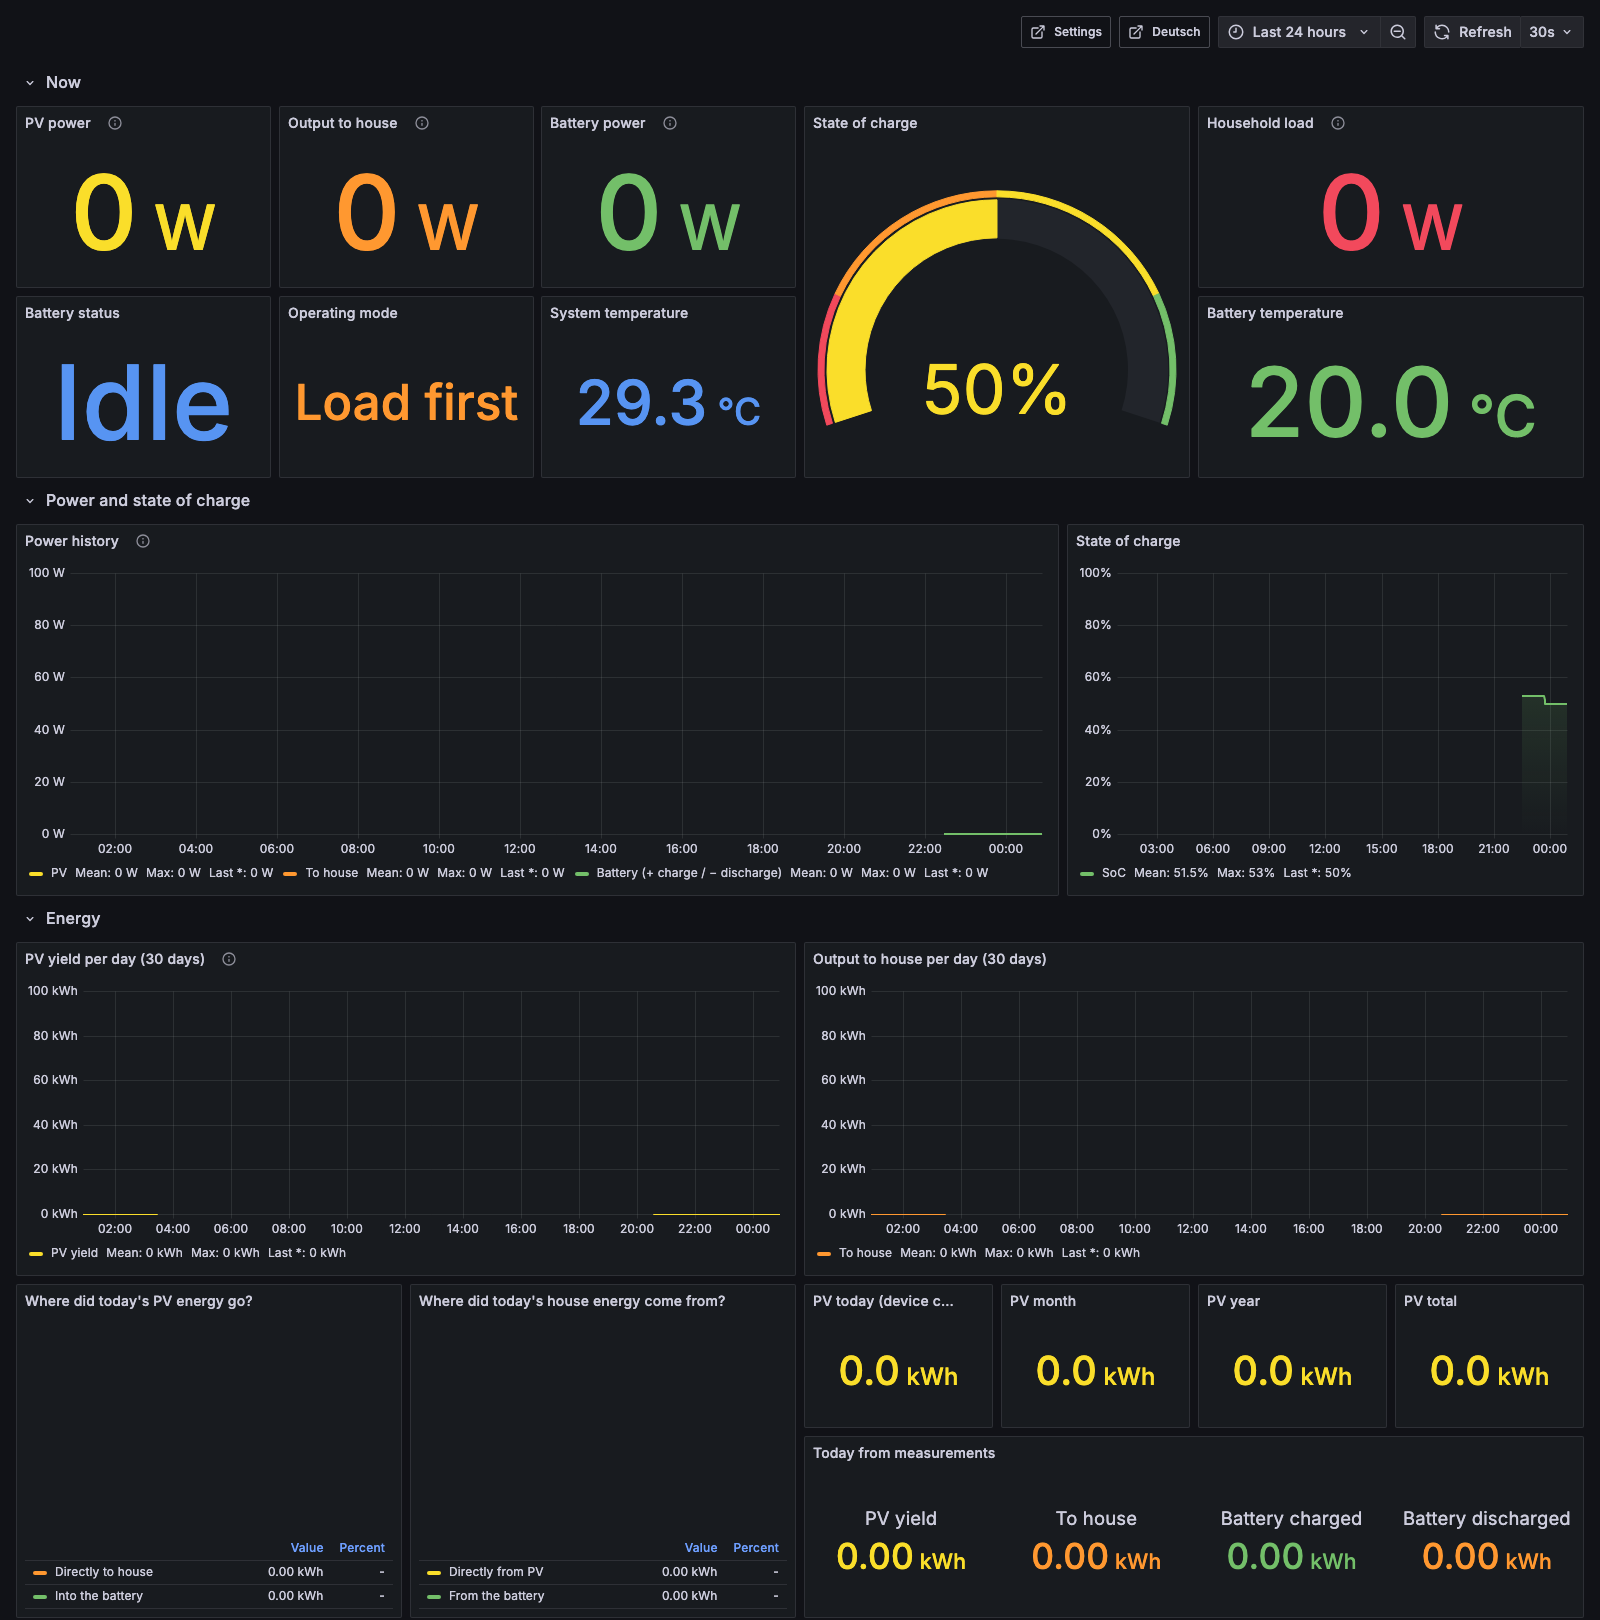
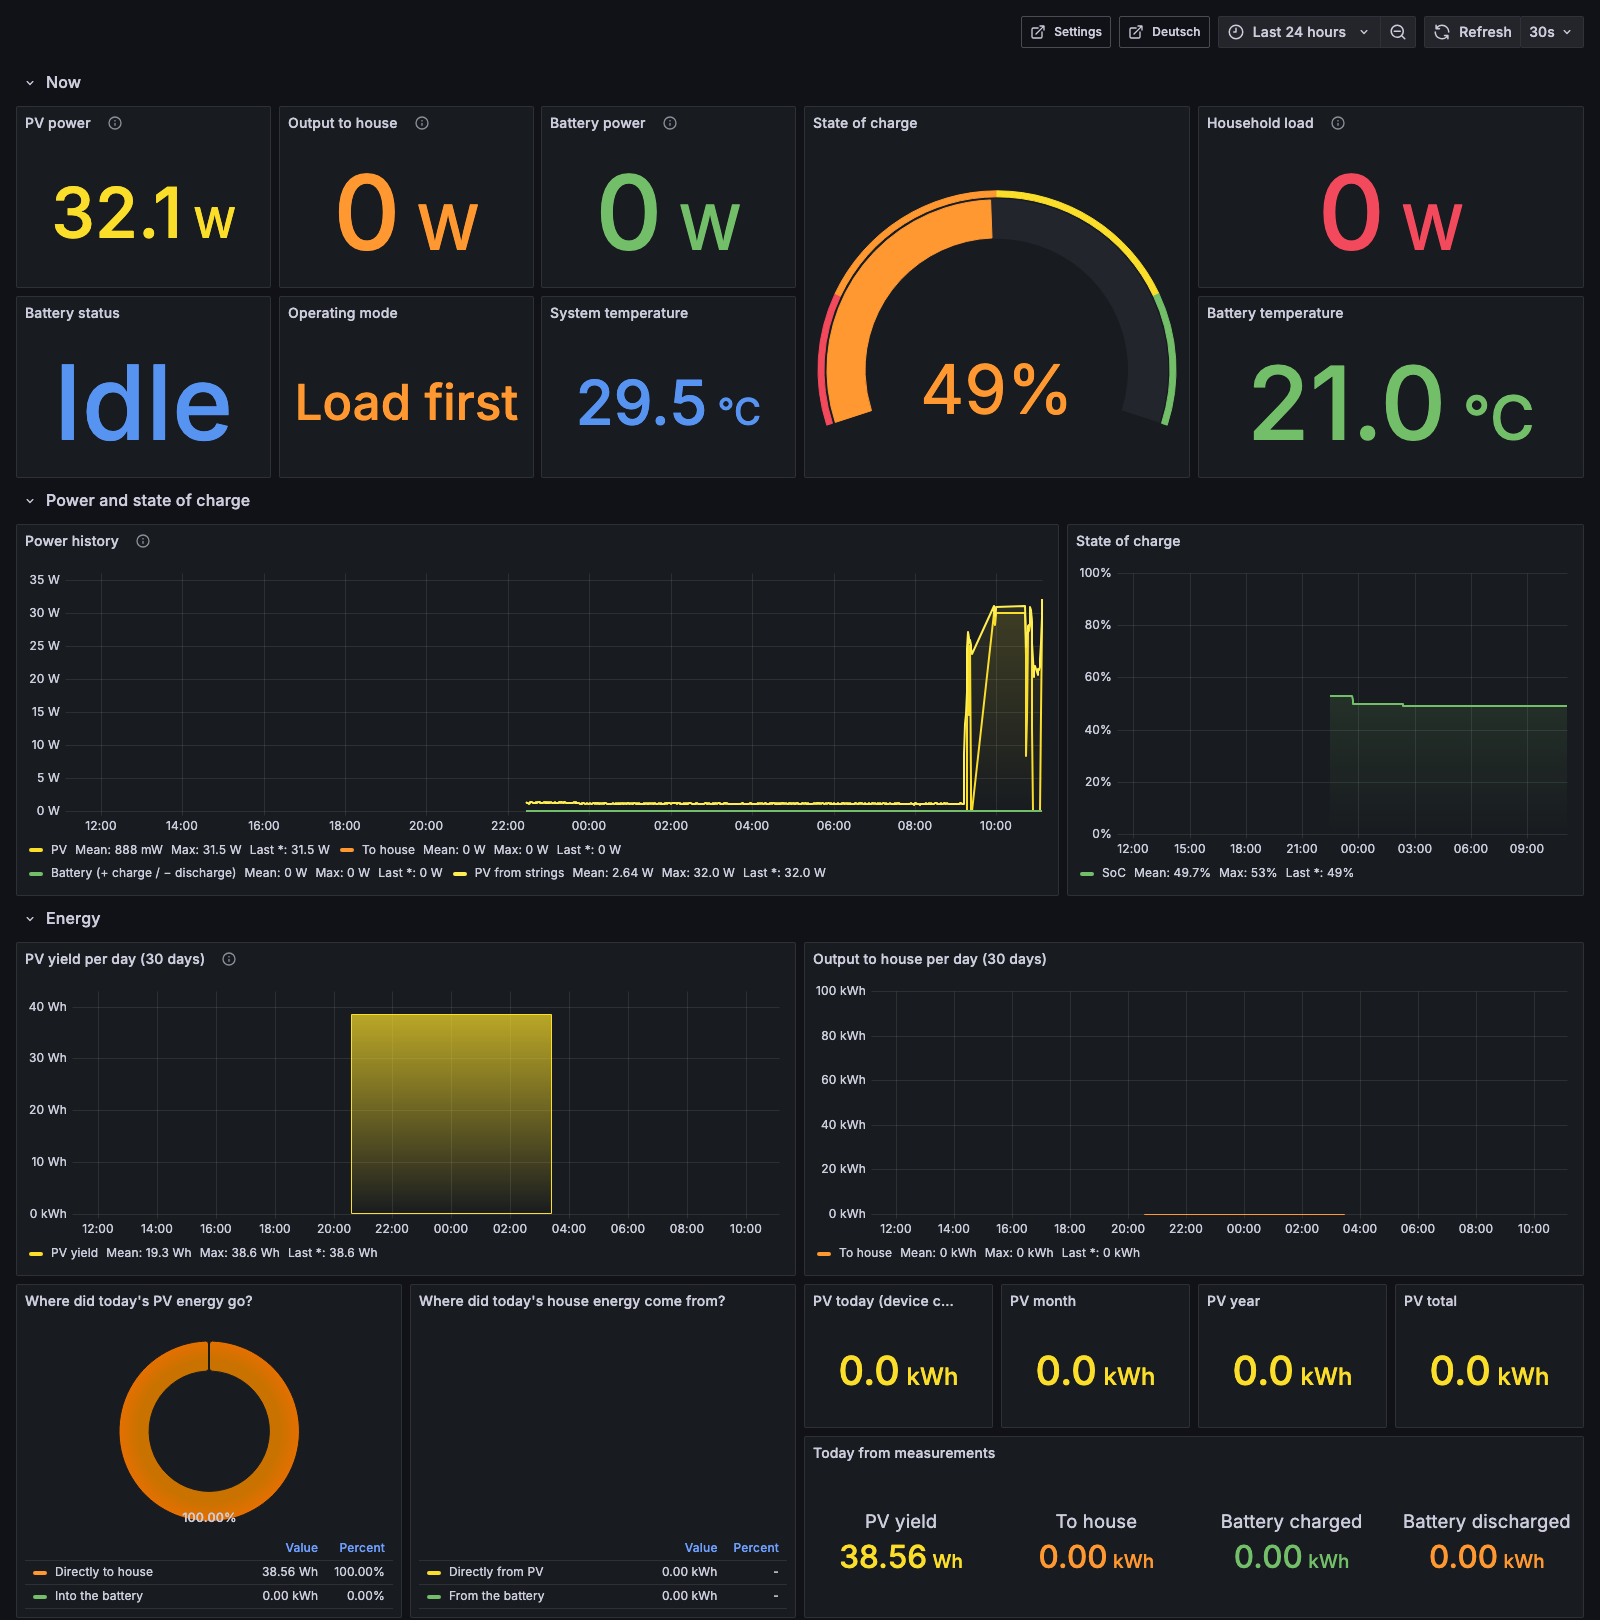
Dashboard: auto-scaled power units, PV power from string V×I, refreshed screenshot (2026.36.2)
Small values below 1 W are shown as mW instead of rounding to 0 W. The PV tile and a fourth series in the power history
are computed from voltage × current of the four strings, because the device's ppv register rounds to whole watts and lags.

Claude-Session: https://claude.ai/code/session_01G7itcPsHBNdmMS3SzQs72S

diff --git a/settings-ui/index.html b/settings-ui/index.html
@@ -55,7 +55,7 @@
 </head>
 <body>
 <header>
-  <h1>GroLo <small>Growatt Local · 2026.36.1</small></h1>
+  <h1>GroLo <small>Growatt Local · 2026.36.2</small></h1>
   <span id="conn" class="pill">…</span>
   <span id="dev" class="pill">–</span>
   <span id="avail" class="pill">–</span>
@@ -91,7 +91,7 @@
   <section id="sec-other" hidden><h2 data-t="sec.other"></h2><p class="hint" data-t="sec.other.hint"></p><div class="grid"></div></section>
   <section><h2 data-t="sec.log"></h2><p class="hint" data-t="sec.log.hint"></p><div id="log"></div></section>
 </main>
-<footer>GroLo · Growatt Local · v2026.36.1 · MQTT <span id="ws-url"></span></footer>
+<footer>GroLo · Growatt Local · v2026.36.2 · MQTT <span id="ws-url"></span></footer>
 
 <script src="mqtt.min.js"></script>
 <script>

diff --git a/grafana/build-dashboard.py b/grafana/build-dashboard.py
@@ -48,7 +48,8 @@ EN = {
     "Unbekannte Register (Forschung)": "Unknown registers (research)", "Unbekannte Eingangsregister, Verlauf (nur ≠ 0)": "Unknown input registers, history (≠ 0 only)",
     "Rohwerte der Register, die die Bridge nicht kennt. 30000 = Offset für 0 bei vorzeichenbehafteten Werten.": "Raw values of registers the bridge does not know. 30000 = offset for 0 in signed values.",
     "Halteregister-Dump (unbekannt, ≠ 0)": "Holding register dump (unknown, ≠ 0)", "Kommt stündlich vom Gerät (Nachricht 0x0103).": "Sent hourly by the device (message 0x0103).",
-    "Register": "Register", "Wert": "Value", "PV-Eingänge belegt": "PV inputs in use", "belegt": "in use",
+    "Register": "Register", "Wert": "Value", "PV aus Strings": "PV from strings",
+    "Summe Spannung × Strom aller Strings. Feiner und aktueller als das Geräteregister, das auf ganze Watt rundet.": "Sum of voltage × current of all strings. Finer and more current than the device register, which rounds to whole watts.", "PV-Eingänge belegt": "PV inputs in use", "belegt": "in use",
     "Eingänge mit mehr als 5 V in den letzten 24 h, von 4 MPPT-Eingängen": "Inputs with more than 5 V in the last 24 h, out of 4 MPPT inputs",
     "PV-Eingang 1 bis 4": "PV input 1 to 4", "Maximale Spannung je Eingang in 24 h. Grün = Panel angeschlossen, rot = frei.": "Maximum voltage per input in 24 h. Green = panel connected, red = free.", "Einstellungen": "Settings", "Einstellungsseite (GroLo)": "Settings page (GroLo)",
 }
@@ -226,13 +227,20 @@ def build(lang):
     # ============================================================ Jetzt
     panels.append(row(_("Jetzt"), y)); y += 1
     panels += [
-        stat_field(_("PV-Leistung"), 0, y, 4, 5, "ppv", "watt", C_PV, 0, desc=_("Aktuelle Leistung aller PV-Strings")),
-        stat_field(_("Ausgang ins Haus"), 4, y, 4, 5, "pac", "watt", C_HOUSE, 0, desc=_("AC-Ausgangsleistung des NEXA")),
-        stat_field(_("Batterie-Leistung"), 8, y, 4, 5, "totalBatteryPackChargingPower", "watt", C_BAT, 0, desc=_("Lade-/Entladeleistung der Batterie")),
+        stat(_("PV-Leistung"), 0, y, 4, 5, HEAD + f'''from(bucket: "{BUCKET}")
+  |> range(start: -1h)
+  |> filter(fn: (r) => r._measurement == "nexa" and (r._field =~ /^pv[1-4](Voltage|Current)$/))
+  |> pivot(rowKey: ["_time"], columnKey: ["_field"], valueColumn: "_value")
+  |> filter(fn: (r) => exists r.pv1Voltage and exists r.pv4Current)
+  |> last(column: "pv1Voltage")
+  |> map(fn: (r) => ({{ _time: r._time, _value: r.pv1Voltage * r.pv1Current + r.pv2Voltage * r.pv2Current + r.pv3Voltage * r.pv3Current + r.pv4Voltage * r.pv4Current }}))
+  |> keep(columns: ["_time", "_value"])''', "watt", C_PV, desc=_("Summe Spannung × Strom aller Strings. Feiner und aktueller als das Geräteregister, das auf ganze Watt rundet.")),
+        stat_field(_("Ausgang ins Haus"), 4, y, 4, 5, "pac", "watt", C_HOUSE, desc=_("AC-Ausgangsleistung des NEXA")),
+        stat_field(_("Batterie-Leistung"), 8, y, 4, 5, "totalBatteryPackChargingPower", "watt", C_BAT, desc=_("Lade-/Entladeleistung der Batterie")),
         panel("gauge", _("Ladezustand"), 12, y, 6, 10, [target(q_last("totalBatteryPackSoc"))], "percent",
               opts={"reduceOptions": {"calcs": ["lastNotNull"], "fields": "/^Value$/", "values": False}, "showThresholdLabels": False, "showThresholdMarkers": True},
               defaults={"min": 0, "max": 100, "decimals": 0, "thresholds": thresholds((None, "red"), (20, "orange"), (50, "yellow"), (80, "green"))}),
-        stat_field(_("Hausverbrauch"), 18, y, 6, 5, "totalHouseholdLoad", "watt", "red", 0, desc=_("Nur mit Smart Meter / GroPlug befüllt, sonst 0")),
+        stat_field(_("Hausverbrauch"), 18, y, 6, 5, "totalHouseholdLoad", "watt", "red", desc=_("Nur mit Smart Meter / GroPlug befüllt, sonst 0")),
         stat_field(_("Batterie-Status"), 0, y + 5, 4, 5, "totalBatteryPackChargingStatus", None, "blue", mapping=status_map),
         stat_field(_("Betriebsmodus"), 4, y + 5, 4, 5, "workMode", None, "orange", mapping=mode_map),
         stat_field(_("Systemtemperatur"), 8, y + 5, 4, 5, "systemTemp", "celsius", None, 1, thr=thresholds((None, "blue"), (35, "green"), (50, "orange"), (60, "red"))),
@@ -246,7 +254,8 @@ def build(lang):
         ts(_("Leistungsverlauf"), 0, y, 16, 10, [
             target(q_series("ppv", _("PV")), "A"), target(q_series("pac", _("Ins Haus")), "B"),
             target(q_signed_battery(_("Batterie (+ laden / − entladen)")), "C"),
-        ], "watt", overrides=[color_override(_("PV"), C_PV), color_override(_("Ins Haus"), C_HOUSE), color_override(_("Batterie (+ laden / − entladen)"), C_BAT)],
+            target(q_pivot_map([f"pv{i}{s}" for i in range(1, 5) for s in ("Voltage", "Current")], {_("PV aus Strings"): " + ".join(f"r.pv{i}Voltage * r.pv{i}Current" for i in range(1, 5))}), "D"),
+        ], "watt", overrides=[color_override(_("PV"), C_PV), color_override(_("PV aus Strings"), "light-yellow"), color_override(_("Ins Haus"), C_HOUSE), color_override(_("Batterie (+ laden / − entladen)"), C_BAT)],
            desc=_("Batterie: positiv = laden, negativ = entladen")),
         ts(_("Ladezustand"), 16, y, 8, 10, [target(q_series("totalBatteryPackSoc", "SoC"))], "percent", fill=25, overrides=[color_override("SoC", C_SOC)], mn=0, mx=100),
     ]
@@ -335,7 +344,7 @@ def build(lang):
   |> filter(fn: (r) => r._measurement == "nexa" and r._field == "onGridPower")
   |> last()
   |> map(fn: (r) => ({{ _time: r._time, _value: r._value - 30000.0 }}))
-  |> keep(columns: ["_time", "_value"])''', "watt", "purple", 0, desc=_("Register 116, Offset 30000 = 0 W, Vorzeichen unbestätigt")),
+  |> keep(columns: ["_time", "_value"])''', "watt", "purple", desc=_("Register 116, Offset 30000 = 0 W, Vorzeichen unbestätigt")),
         stat(_("Zellspannung Differenz"), 16, y, 4, 4, HEAD + f'''from(bucket: "{BUCKET}")
   |> range(start: -1h)
   |> filter(fn: (r) => r._measurement == "nexa" and (r._field == "maxCellVoltage" or r._field == "minCellVoltage"))

diff --git a/README.md b/README.md
@@ -5,7 +5,7 @@ A Docker Compose stack: TLS MQTT broker for the Growatt Wi-Fi dongle, [GroBro](h
 InfluxDB + Grafana for history, a bilingual settings page (EN/DE), and three small helper services for hardware info, raw registers and
 an optional, switchable relay to the Growatt cloud.
 
-Version **2026.36.1** · Runs on any host with Docker (developed on macOS, tested with NEXA 2000 firmware 4.0.2.6 and two battery packs).
+Version **2026.36.2** · Runs on any host with Docker (developed on macOS, tested with NEXA 2000 firmware 4.0.2.6 and two battery packs).
 
 | GroLo settings page | Grafana dashboard |
 |---|---|
@@ -232,7 +232,7 @@ settings-ui/                 GroLo settings page (static, MQTT over WebSocket)
 grobro/sidecar/              dongle_info.py, raw_registers.py, cloud_gate.py
 grobro/registers/            extended NEXA register map
 docs/                        screenshots
-VERSION                      2026.36.1
+VERSION                      2026.36.2
 ```
 
 License: MIT.
